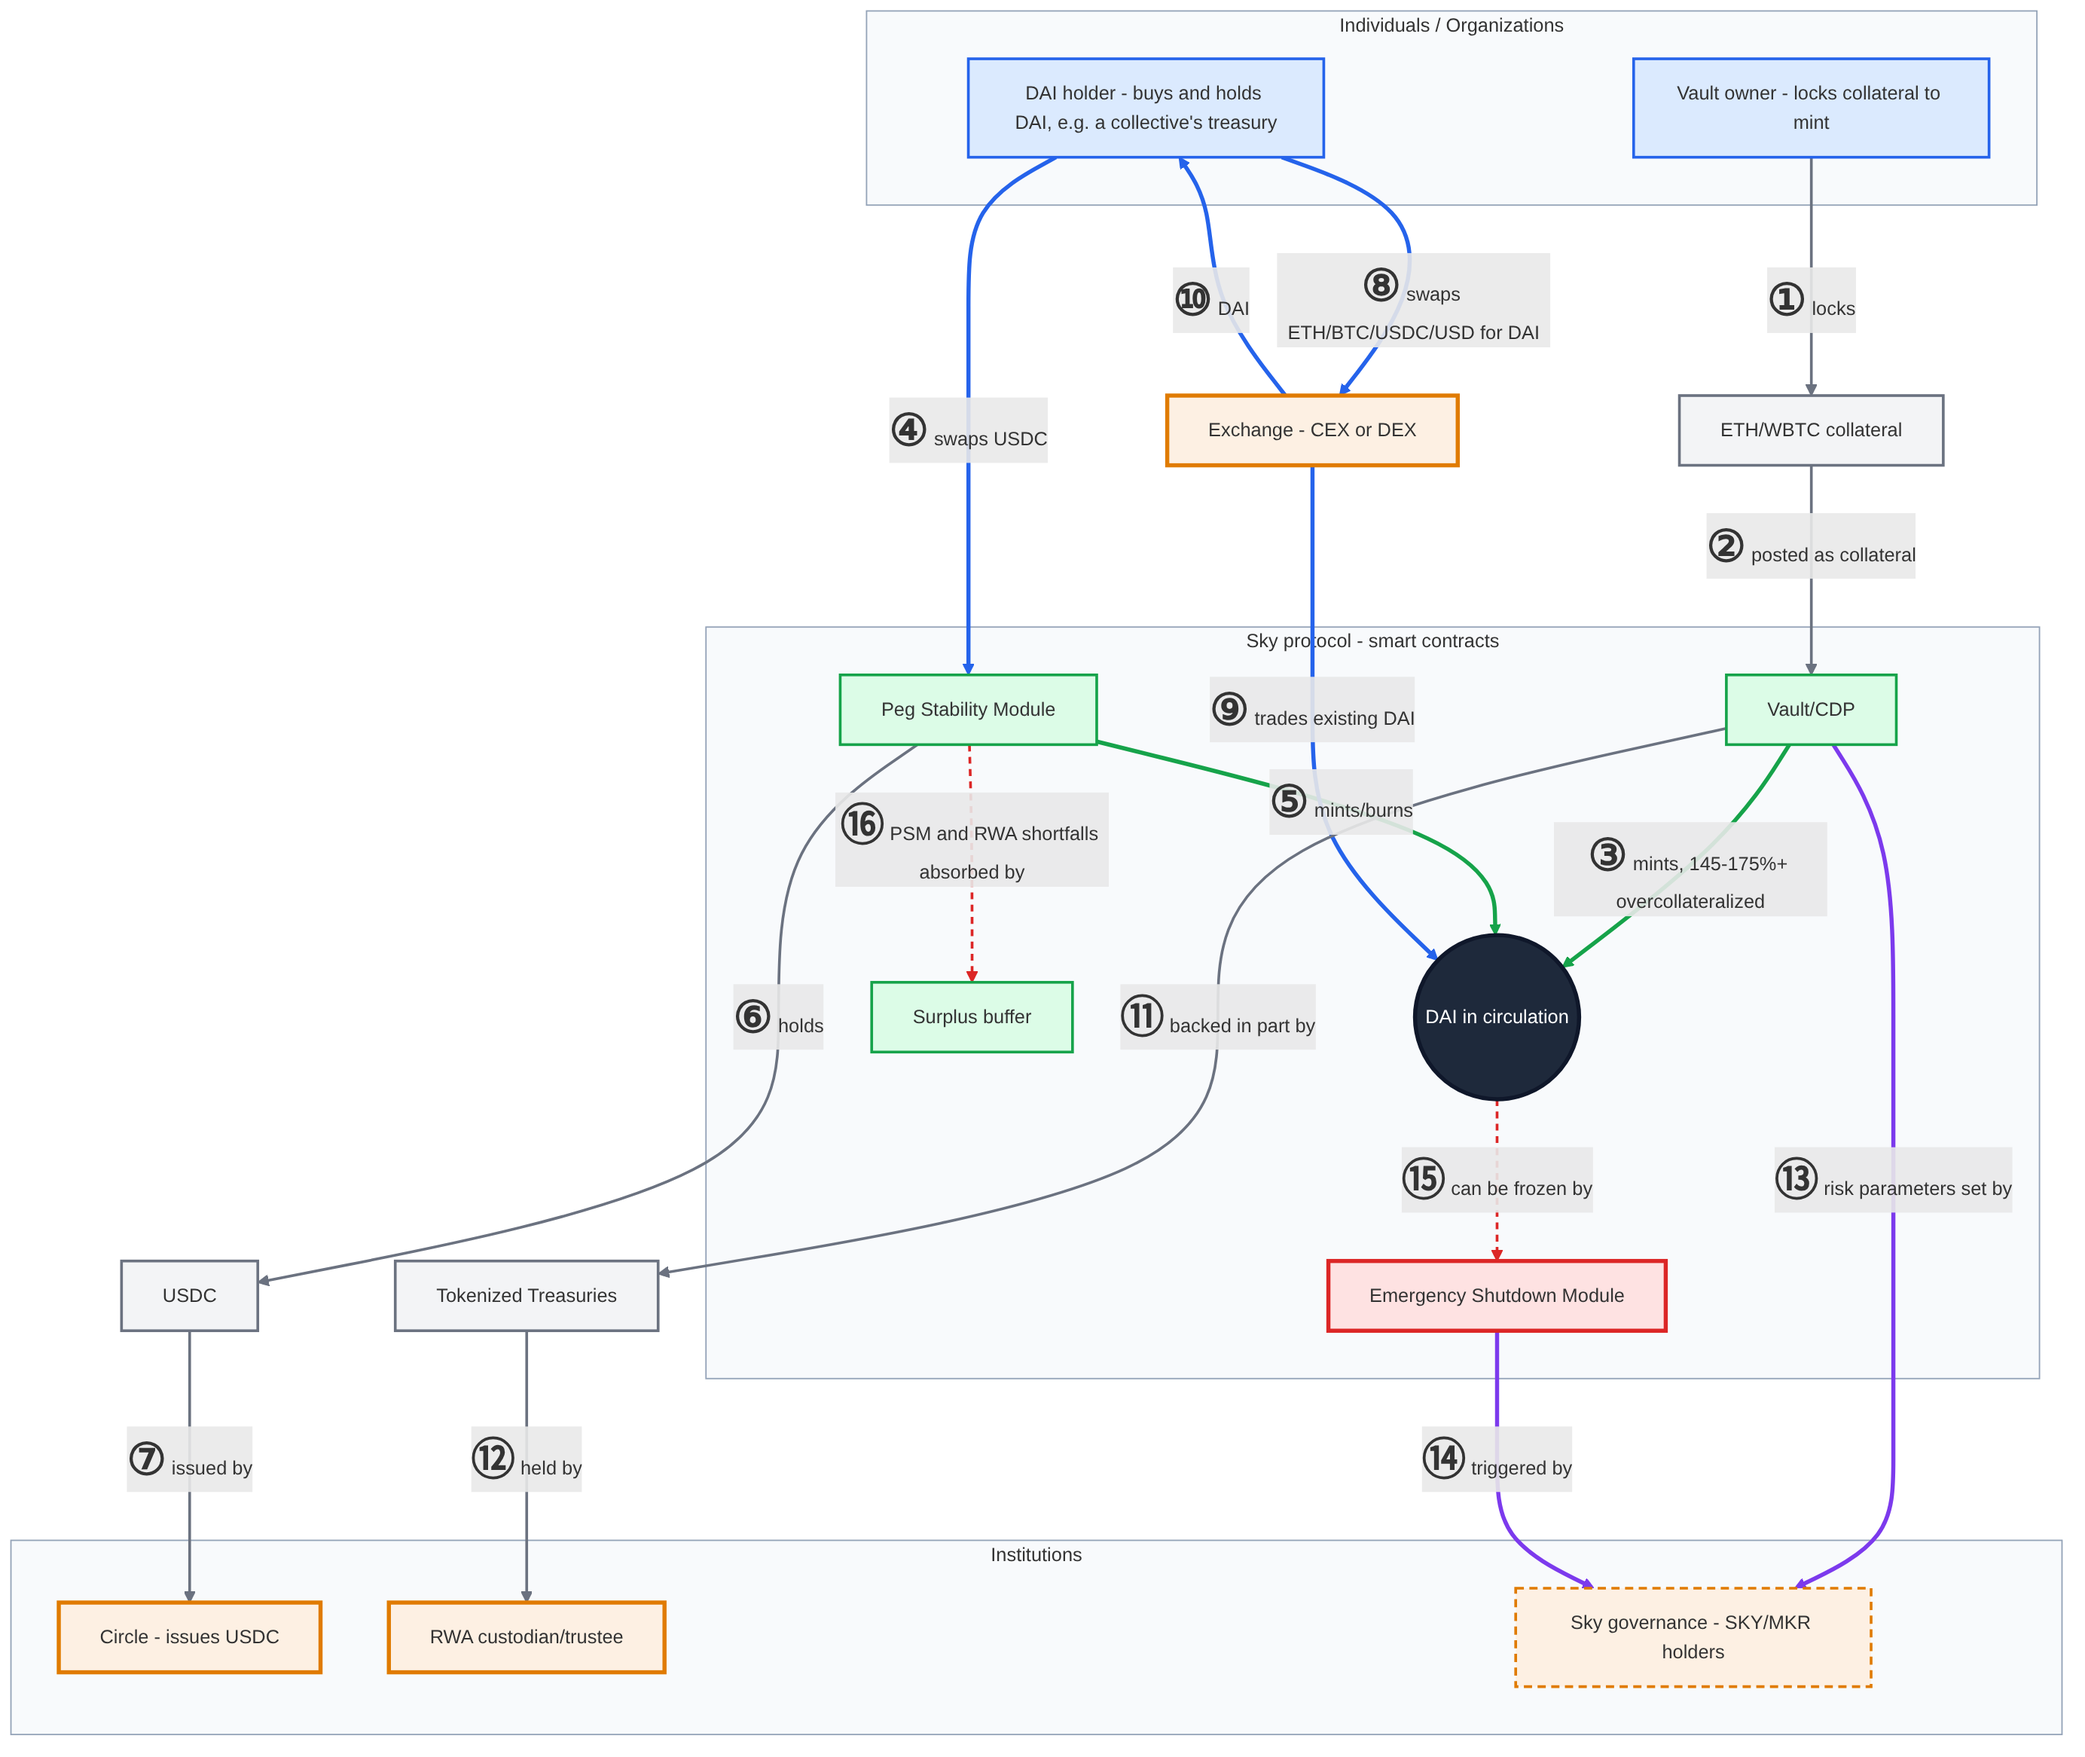
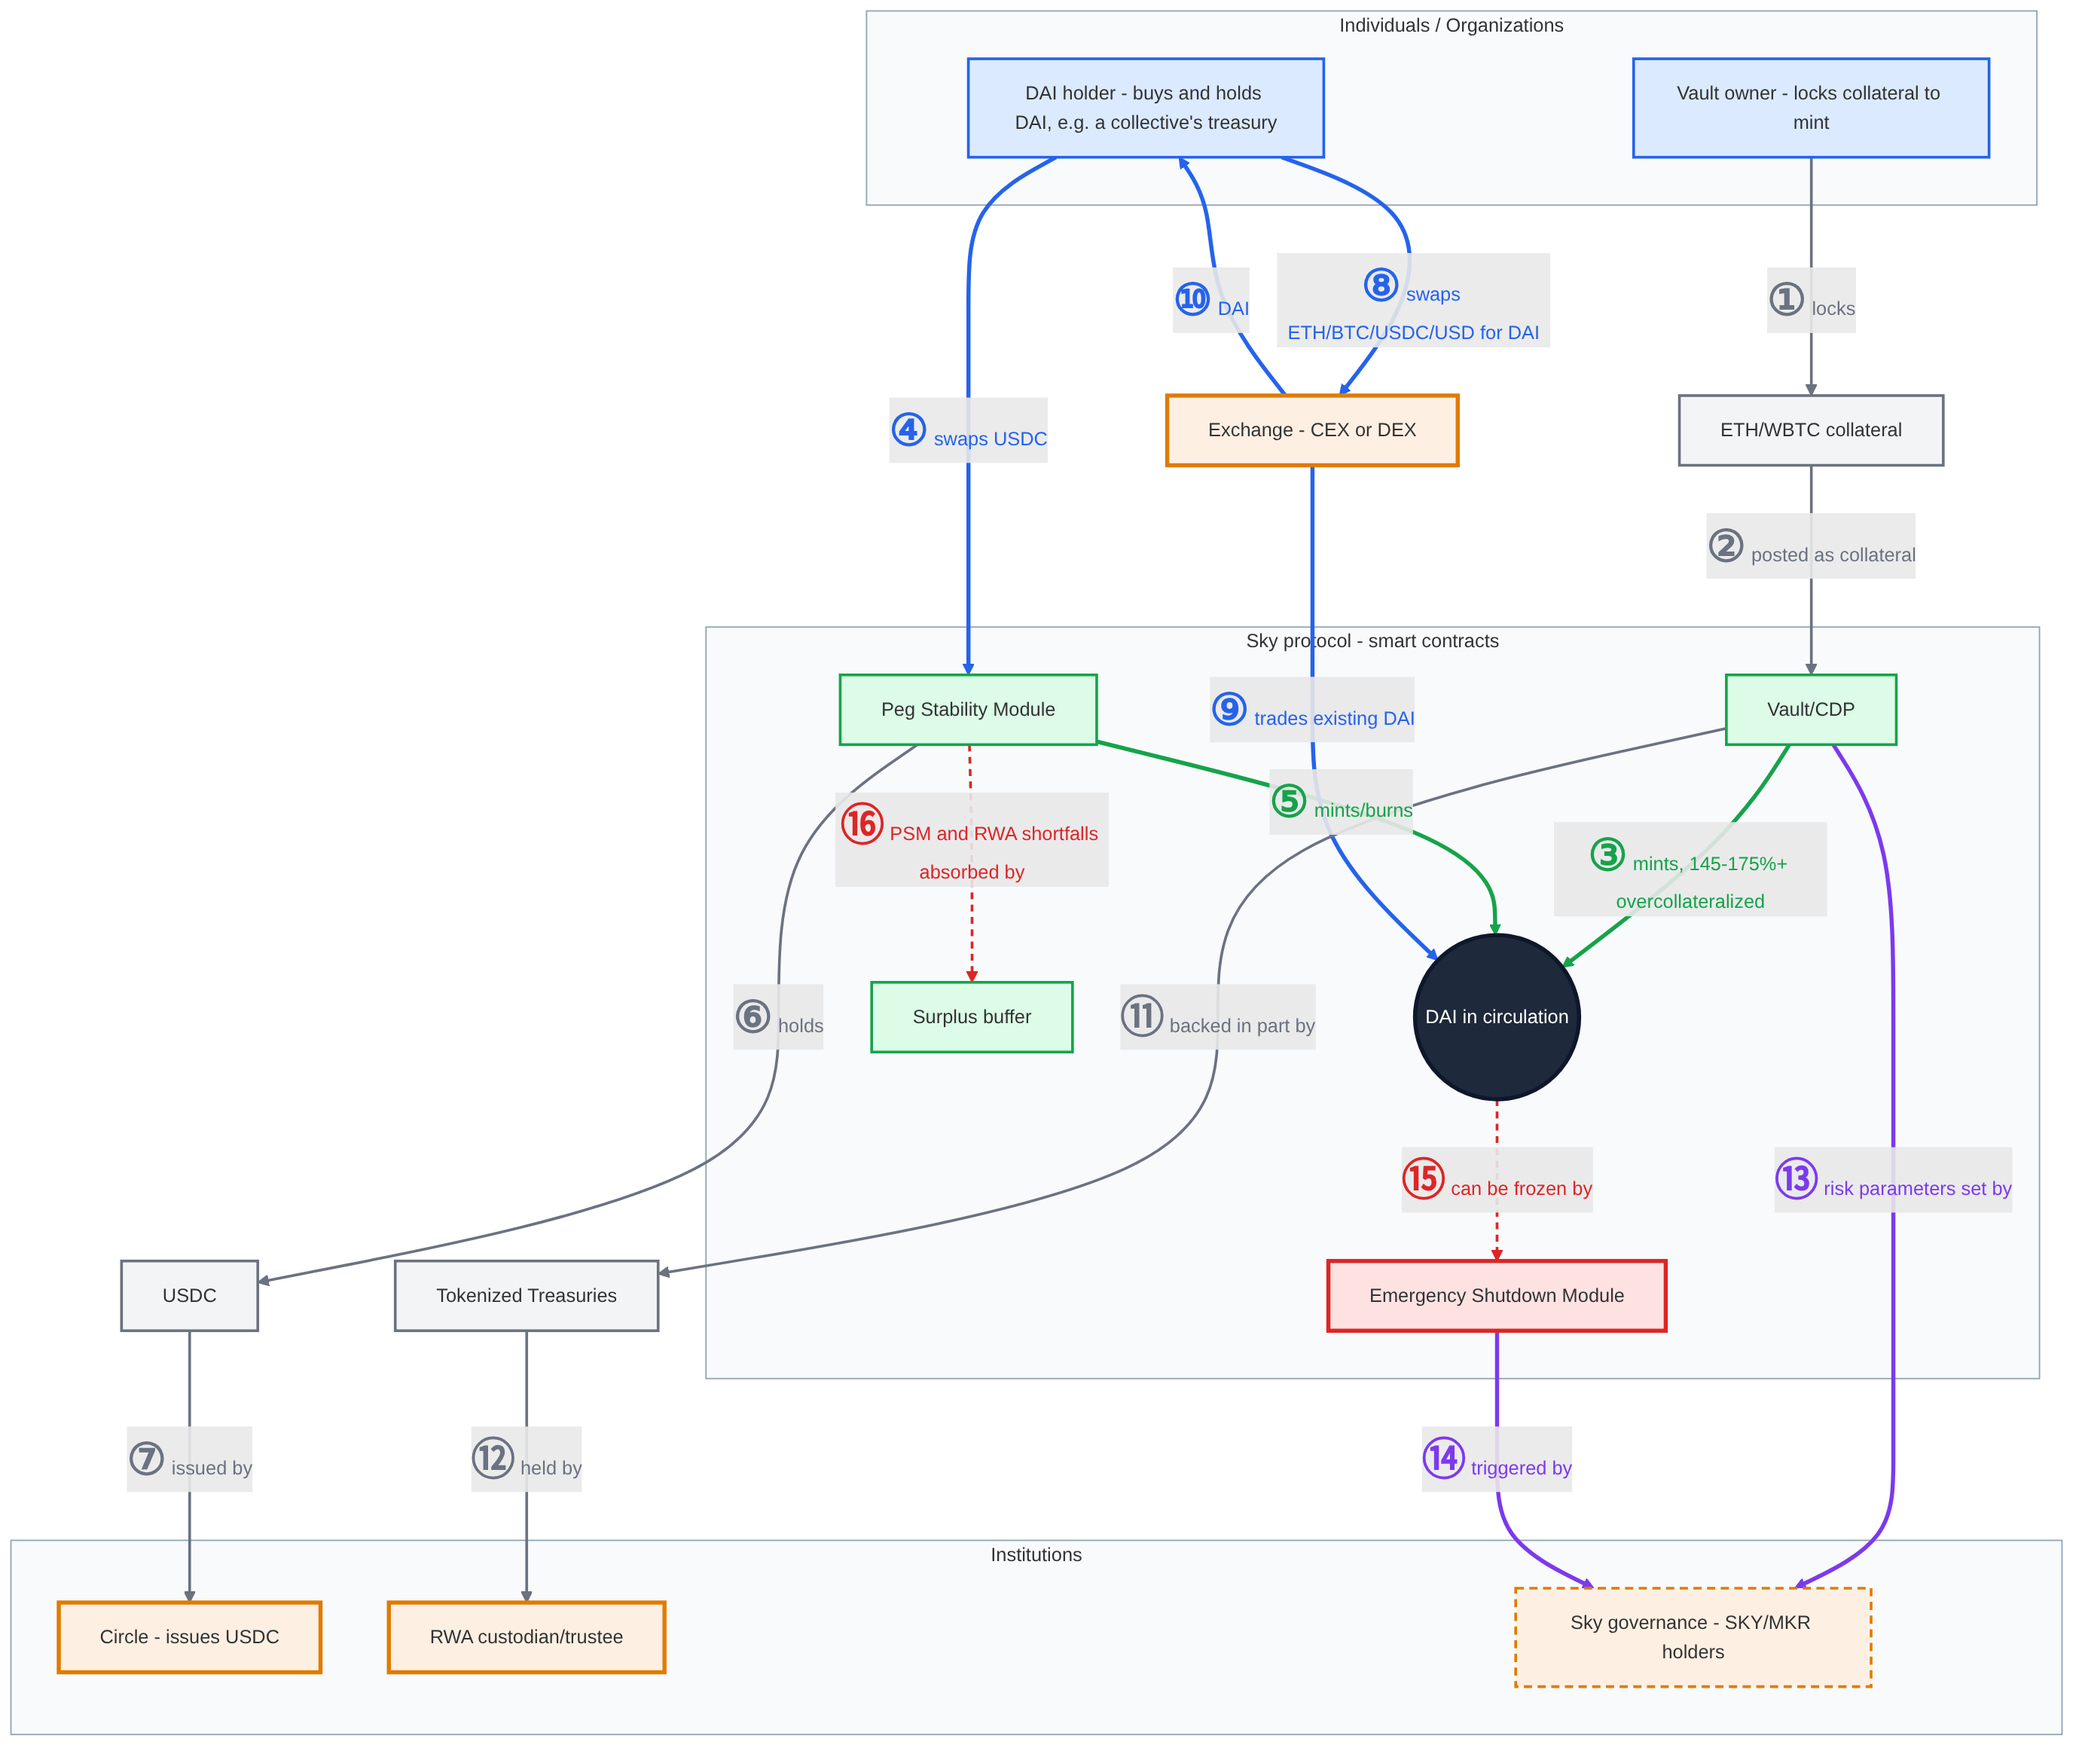
docs: color the DAI diagram's numbered labels and walkthrough numerals by arrow family
Give each linkStyle in dai-flows.mmd a matching text color so the circled digits and edge
labels follow the arrow colors (green created, blue changes hands, gray custody, purple
control, red stress), and color the same numerals in the A.4 walkthrough text, moving the
math out of italic lead-ins so GitHub renders it.

diff --git a/governance/commons-hub-pattern.md b/governance/commons-hub-pattern.md
@@ -1725,54 +1725,59 @@ Entities in the diagram:
 
 Following the numbers, DAI reaches someone's hands in three ways:
 
-- minted against collateral (①–③)
-- minted against USDC (④–⑦)
-- bought on an exchange (⑧–⑩)
+- minted against collateral ($\color{gray}{\text{①}}$–$\color{green}{\text{③}}$)
+- minted against USDC ($\color{blue}{\text{④}}$–$\color{gray}{\text{⑦}}$)
+- bought on an exchange ($\color{blue}{\text{⑧}}$–$\color{blue}{\text{⑩}}$)
 
 Three more things sit underneath:
 
-- what backs it: real-world assets (⑪–⑫)
-- who sets the rules (⑬–⑭)
-- what happens when things go wrong (⑮–⑯)
+- what backs it: real-world assets ($\color{gray}{\text{⑪}}$–$\color{gray}{\text{⑫}}$)
+- who sets the rules ($\color{purple}{\text{⑬}}$–$\color{purple}{\text{⑭}}$)
+- what happens when things go wrong ($\color{red}{\text{⑮}}$–$\color{red}{\text{⑯}}$)
 
-*Minted against collateral (①–③).* A vault owner locks crypto in the protocol (① and ②),
-and the Vault mints DAI against it (③). The collateral has to be worth more than the DAI
-minted against it, by a margin the diagram puts at 145% to 175% or more, so that a price
-drop doesn't leave DAI unbacked. Sky's core repository describes the design the same way:
-DAI creation isn't possible without collateral, and positions that turn risky are
-liquidated through auctions.[^40]
+*Minted against collateral* ($\color{gray}{\text{①}}$–$\color{green}{\text{③}}$). A vault owner
+locks crypto in the protocol ($\color{gray}{\text{①}}$ and $\color{gray}{\text{②}}$), and the
+Vault mints DAI against it ($\color{green}{\text{③}}$). The collateral has to be worth more than
+the DAI minted against it, by a margin the diagram puts at 145% to 175% or more, so that a price
+drop doesn't leave DAI unbacked. Sky's core repository describes the design the same way: DAI
+creation isn't possible without collateral, and positions that turn risky are liquidated through
+auctions.[^40]
 
-*Minted against USDC (④–⑦).* Someone holding USDC can swap it for DAI through the Peg
-Stability Module (④). The module works as a specially authorized vault: it locks the
-incoming USDC and issues DAI against it (⑤ and ⑥), with a fee taken out of the DAI
-received.[^38] The catch sits at the far end of the path. [Circle](https://www.circle.com/) 
-issues USDC (⑦) and can freeze it, which is why Circle is orange, and 
-why everything minted this way inherits that exposure.
+*Minted against USDC* ($\color{blue}{\text{④}}$–$\color{gray}{\text{⑦}}$). Someone holding USDC
+can swap it for DAI through the Peg Stability Module ($\color{blue}{\text{④}}$). The module works
+as a specially authorized vault: it locks the incoming USDC and issues DAI against it
+($\color{green}{\text{⑤}}$ and $\color{gray}{\text{⑥}}$), with a fee taken out of the DAI
+received.[^38] The catch sits at the far end of the path. [Circle](https://www.circle.com/) issues
+USDC ($\color{gray}{\text{⑦}}$) and can freeze it, which is why Circle is orange, and why
+everything minted this way inherits that exposure.
 
-*Bought on an exchange (⑧–⑩).* This is the path most collectives will actually use. They
-swap ETH, BTC, USDC, or dollars for DAI (⑧), an exchange sells them DAI that is already in
-circulation (⑨), and the DAI arrives in their wallet (⑩). Nothing new is minted on this
-path: the exchange is a marketplace, not an issuer. It's orange because a centralized
-exchange knows who you are and can refuse to serve you, which makes this the one leg where
-ordinary financial-institution controls still apply. A decentralized exchange is code
-rather than an institution, so only the centralized kind carries that exposure.
+*Bought on an exchange* ($\color{blue}{\text{⑧}}$–$\color{blue}{\text{⑩}}$). This is the path most
+collectives will actually use. They swap ETH, BTC, USDC, or dollars for DAI
+($\color{blue}{\text{⑧}}$), an exchange sells them DAI that is already in circulation
+($\color{blue}{\text{⑨}}$), and the DAI arrives in their wallet ($\color{blue}{\text{⑩}}$).
+Nothing new is minted on this path: the exchange is a marketplace, not an issuer. It's orange
+because a centralized exchange knows who you are and can refuse to serve you, which makes this the
+one leg where ordinary financial-institution controls still apply. A decentralized exchange is
+code rather than an institution, so only the centralized kind carries that exposure.
 
-*Backed in part by real-world assets (⑪–⑫).* Some of the backing is Tokenized Treasuries
-(⑪), held for the protocol by an RWA custodian (⑫). That makes the custodian a second
-institution that can be pressured, sitting behind what is otherwise code.
+*Backed in part by real-world assets* ($\color{gray}{\text{⑪}}$–$\color{gray}{\text{⑫}}$). Some of
+the backing is Tokenized Treasuries ($\color{gray}{\text{⑪}}$), held for the protocol by an RWA
+custodian ($\color{gray}{\text{⑫}}$). That makes the custodian a second institution that can be
+pressured, sitting behind what is otherwise code.
 
-*Who sets the rules (⑬–⑭).* Holders of Sky's governance tokens decide which collateral is
-accepted and how much DAI can be issued against each type (⑬).[^40] The same token holders
-also stand behind the emergency brake (⑭): they can pledge tokens, which are burned, and
-once enough are pledged anyone can fire the Emergency Shutdown Module. Sky describes it as
-a tool for a minority of holders to stop malicious governance or a critical bug.[^39]
+*Who sets the rules* ($\color{purple}{\text{⑬}}$–$\color{purple}{\text{⑭}}$). Holders of Sky's
+governance tokens decide which collateral is accepted and how much DAI can be issued against each
+type ($\color{purple}{\text{⑬}}$).[^40] The same token holders also stand behind the emergency
+brake ($\color{purple}{\text{⑭}}$): they can pledge tokens, which are burned, and once enough are
+pledged anyone can fire the Emergency Shutdown Module. Sky describes it as a tool for a minority
+of holders to stop malicious governance or a critical bug.[^39]
 
-*When things go wrong (⑮–⑯).* The red arrows are the stress paths. If Emergency Shutdown
-fires, DAI stops behaving like a freely spendable balance and becomes a claim on a
-settlement process (⑮). And if a position in the Peg Stability Module or the real-world
-asset pool loses value, the shortfall is absorbed by the protocol's surplus buffer (⑯);
-debt the system can't otherwise cover is made good by diluting the governance token
-through an auction.[^40]
+*When things go wrong* ($\color{red}{\text{⑮}}$–$\color{red}{\text{⑯}}$). The red arrows are the
+stress paths. If Emergency Shutdown fires, DAI stops behaving like a freely spendable balance and
+becomes a claim on a settlement process ($\color{red}{\text{⑮}}$). And if a position in the Peg
+Stability Module or the real-world asset pool loses value, the shortfall is absorbed by the
+protocol's surplus buffer ($\color{red}{\text{⑯}}$); debt the system can't otherwise cover is made
+good by diluting the governance token through an auction.[^40]
 
 The resilience described at the top of this backgrounder isn't unconditional, though, and
 it's worth being precise about where its limits actually sit rather than let a reader
